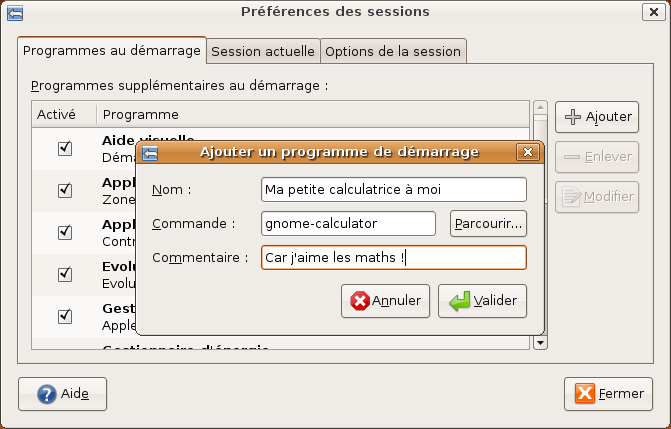
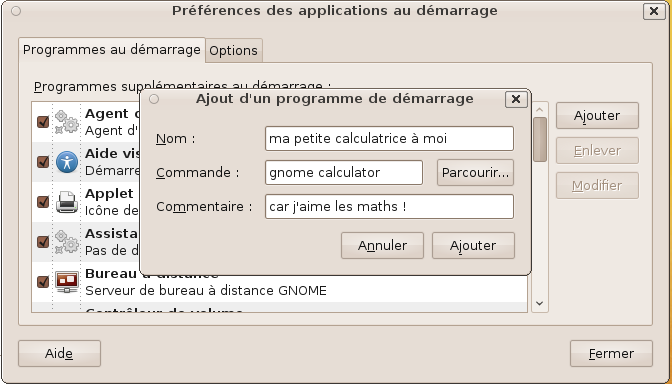
corrections et MAJ d'images

Changed region(s): [[0.0, 0.0, 0.9538, 1.0], [0.8346, 0.0, 1.0, 1.0], [0.2385, 0.5938, 0.3577, 0.625]]

diff --git a/corps/chapitre6/chapitre6.tex b/corps/chapitre6/chapitre6.tex
@@ -72,7 +72,7 @@ Lorsque vous double-cliquerez sur un fichier, ce sera l'application par défaut 
 Vous remarquerez également que lorsque vous souhaitez renommer un fichier ayant une extension dans Nautilus -- par un clic-droit, Renommer\ldots{} -- le texte sélectionné ne contient pas l'extension, ce qui vous permet de ne pas avoir à resélectionner, ou encore renommer en réécrivant, mal parfois, l'extension\NotePage{Oui, c'est du vécu !}. Il s'agit seulement d'une petite mise en lumière d'un détail, mais que tous les \RefGlossaire{Système}{Système d'exploitation}{OS}{OS} ne font pas forcément\ldots{}
 \end{nota}
 \section{Faire démarrer un programme automatiquement à l'ouverture de ma session}
-Imaginons que vous êtes féru de mathématiques et que votre vie changerait si au démarrage de votre session, la calculatrice se présentait automatiquement à vous. Pour cela, il vous suffit d'aller dans Système \FlecheDroite Préférences \FlecheDroite Sessions. Dans l'onglet «~Programmes au démarrage~», cliquez sur «~Ajouter~», donnez un nom à l'application comme «~Ma petite calculatrice à moi~», puis entrez le nom de la commande pour lancer le logiciel désiré, tel «~gnome-calculator~» dans «~Commande~» et une description éventuelle avant de valider et de fermer la fenêtre Sessions comme montré à l'image \ref{ImgAjouterProgDemarrage}. Par contre, il vous faudra effectuer cette dernière opération pour tous les utilisateurs de votre système.\par
+Imaginons que vous êtes féru de mathématiques et que votre vie changerait si au démarrage de votre session, la calculatrice se présentait automatiquement à vous. Pour cela, il vous suffit d'aller dans Système \FlecheDroite Préférences \FlecheDroite Applications au démarrage. Dans l'onglet «~Programmes au démarrage~», cliquez sur «~Ajouter~», donnez un nom à l'application comme «~Ma petite calculatrice à moi~», puis entrez le nom de la commande pour lancer le logiciel désiré, tel «~gnome-calculator~» dans «~Commande~» et une description éventuelle avant de valider et de fermer la fenêtre Sessions comme montré à l'image \ref{ImgAjouterProgDemarrage}. Par contre, il vous faudra effectuer cette dernière opération pour tous les utilisateurs de votre système.\par
 \ImgCentree{6.7}{corps/chapitre6/img/Session_Ajouter.png}{Ajouter un programme au démarrage}{ImgAjouterProgDemarrage}
 Maintenant que l'on a vu la méthode complexe, envisageons la méthode simple : si le programme que vous voulez ajouter est dans le menu, un simple \RefGlossaire{-}{Drag'n'Drop}{Glisser-Déposer}{Glissez-déposez} à partir d'un élément d'un des trois menus «~Applications, Raccourcis, Systèmes~» dans la fenêtre des programmes au démarrage vous l'ajoute automatiquement.
 \section{Retrouver, au redémarrage, mes applications ouvertes lors de l'extinction du PC}
